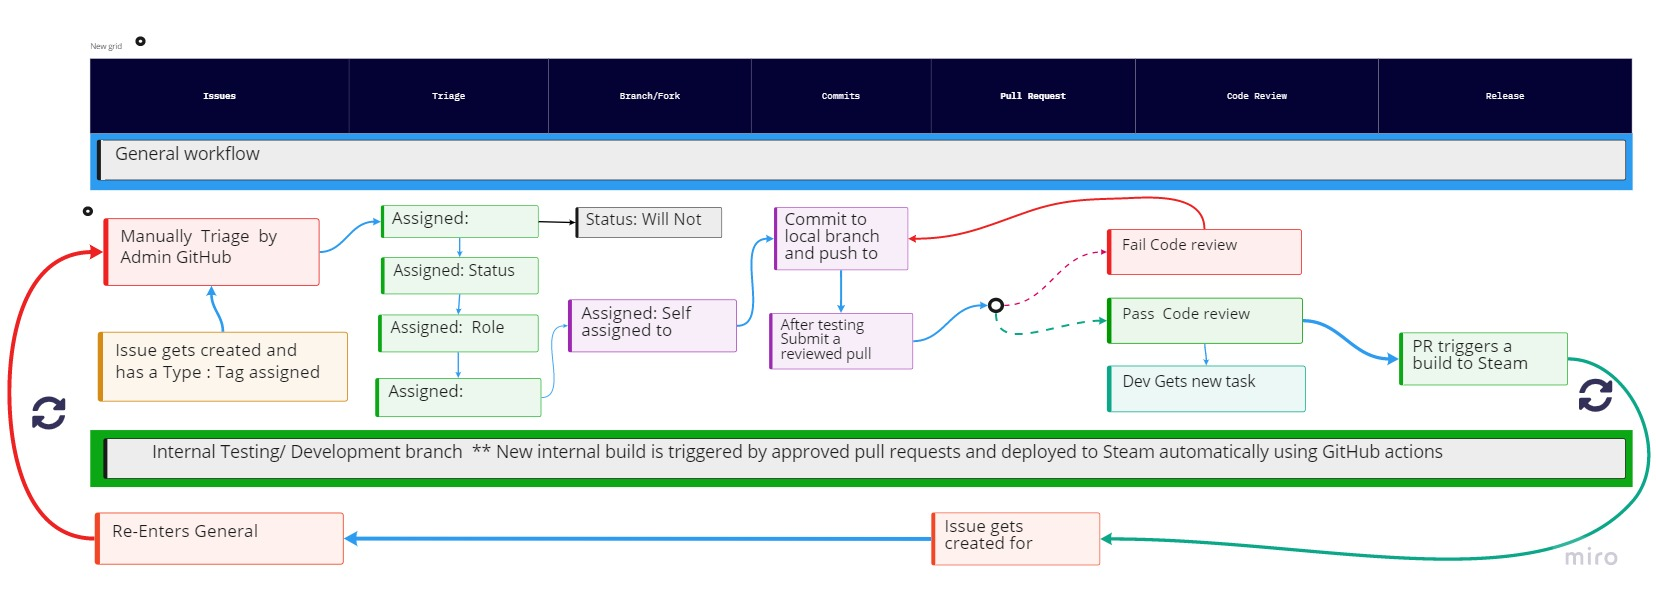
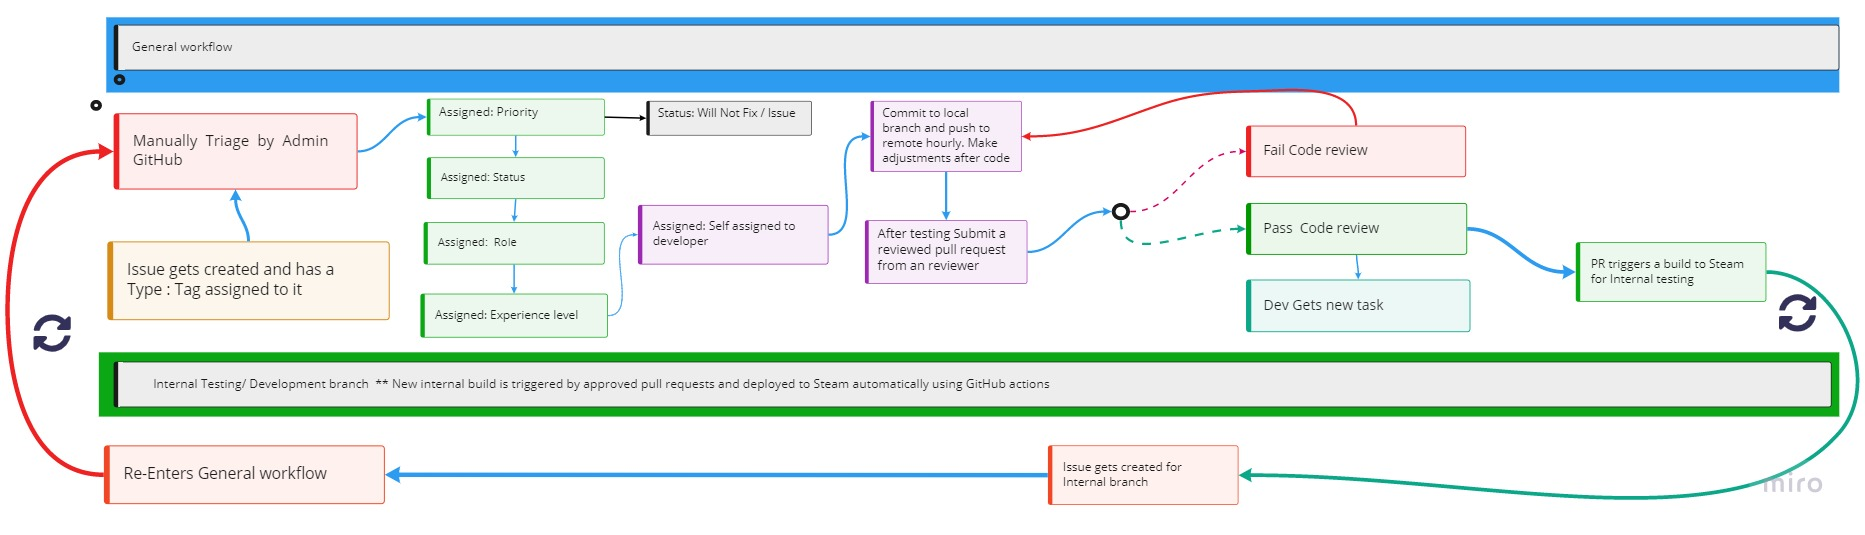
added more media

diff --git a/README.html b/README.html
@@ -61,9 +61,12 @@
 <li><a href="#branching">Branching</a></li>
 </ul>
 </li>
+<li><a href="#releases">Releases</a>
+<ul>
 <li><a href="#internal-testing">Internal Testing</a>
 <ul>
-<li><a href="#release_devyml"><strong>release_dev.yml</strong></a></li>
+<li><a href="#steps">Steps</a></li>
+<li><a href="#release_devyml-will-do-the-following-">**release_dev.yml will do the following **</a></li>
 </ul>
 </li>
 <li><a href="#release-candidate">Release Candidate</a>
@@ -74,6 +77,8 @@
 <li><a href="#main-release">main release</a>
 <ul>
 <li><a href="#release_mainyml"><strong>release_main.yml</strong></a></li>
+</ul>
+</li>
 </ul>
 </li>
 <li><a href="#setting-up-a-development-enviorment">Setting up a Development Enviorment</a></li>
@@ -383,7 +388,7 @@
 <p><strong>Descriptor</strong></p>
 <ul>
 <li>Add a short descriptor of the task</li>
-<li>This makes the branch name recognizable and easy to search</li>
+<li>This makes the branch name recognizable and easy to <strong>search</strong></li>
 <li>In descriptor we will use hyphens - to use instead of white space
 <ul>
 <li><strong>Note: This is only git/github and will not be used in code</strong></li>
@@ -391,8 +396,15 @@
 </li>
 </ul>
 </li>
+</ul>
+</li>
+</ul>
+<p align="left" >
+  <img width="1000" src="https://raw.githubusercontent.com/Project-Hatchet/developers_hub/main/media/Branching/searching_type_frature.png">
+</p>
+<ul>
 <li>
-<p>Types</p>
+<p><strong>Types</strong></p>
 <ul>
 <li>
 <p>This is the type of issue we are working on <strong>all in lowercase</strong></p>
@@ -401,44 +413,44 @@
 <p>This is diffrent than the labels in Github</p>
 </li>
 <li>
-<p>Default types</p>
+<p><strong>Default types</strong></p>
 <ul>
-<li>feature
+<li><strong>feature</strong>
 <ul>
 <li>Adding a new feature</li>
 </ul>
 </li>
-<li>bugfix
+<li><strong>bugfix</strong>
 <ul>
 <li>A fix for a bug</li>
 </ul>
 </li>
-<li>documentation
+<li><strong>documentation</strong>
 <ul>
 <li>Adding or updating documentation</li>
 </ul>
 </li>
-<li>hotfix
+<li><strong>hotfix</strong>
 <ul>
 <li>critical bug fix</li>
 </ul>
 </li>
-<li>devops
+<li><strong>devops</strong>
 <ul>
 <li>updating a tool or workflow not related to</li>
 </ul>
 </li>
-<li>model
+<li><strong>model</strong>
 <ul>
 <li>an update to a model</li>
 </ul>
 </li>
-<li>texture
+<li><strong>texture</strong>
 <ul>
 <li>update to texture or rvmat</li>
 </ul>
 </li>
-<li>refactor
+<li><strong>refactor</strong>
 <ul>
 <li>refactor of code to improve</li>
 </ul>
@@ -453,13 +465,13 @@
 </ul>
 </li>
 <li>
-<p>Branch Creation Format</p>
+<p><strong>Branch Creation Format</strong></p>
 <ul>
 <li>
-<p>Type/Descriptor</p>
+<p><strong>Type</strong>/<strong>Descriptor</strong></p>
 </li>
 <li>
-<p>Good examples</p>
+<p><strong>Good examples</strong></p>
 <ul>
 <li>bugfix/dampeners</li>
 <li>feature/overhaul-flir-system</li>
@@ -467,7 +479,7 @@
 </ul>
 </li>
 <li>
-<p>Bad examples</p>
+<p><strong>Bad examples</strong></p>
 <ul>
 <li>version1-breakpoint1</li>
 <li>update-electron-comparison</li>
@@ -476,10 +488,26 @@
 </ul>
 </li>
 </ul>
+<h1 id="releases">Releases</h1>
+<h2 id="internal-testing">Internal Testing</h2>
+<img align="center" width="" src="https://raw.githubusercontent.com/Project-Hatchet/developers_hub/main/media/workflow_and_automation/automation_workflow.jpg">
+<h3 id="steps">Steps</h3>
+<ul>
+<li>Issue gets created and is assigned an Type: Triage label</li>
+<li>A senior developer Triage's the issue and assigns:
+<ul>
+<li>Priority</li>
+<li>Status</li>
+<li>Role</li>
+<li>Experience level
+<ul>
+<li>or will not fix and issue gets closed</li>
+</ul>
 </li>
 </ul>
-<h1 id="internal-testing">Internal Testing</h1>
-<h3 id="release_devyml"><strong>release_dev.yml</strong></h3>
+</li>
+</ul>
+<h3 id="release_devyml-will-do-the-following-">**release_dev.yml will do the following **</h3>
 <ul>
 <li>on push to main branch</li>
 <li>builds addons with HEMTT</li>
@@ -488,13 +516,13 @@
 <li>Uploads to steam workshop</li>
 <li>Only available to friends of the steam page</li>
 </ul>
-<h1 id="release-candidate">Release Candidate</h1>
+<h2 id="release-candidate">Release Candidate</h2>
 <h3 id="release_rcyml"><strong>release_rc.yml</strong></h3>
 <ul>
 <li>Build triggered by tag rc-v0.0.0</li>
 <li>uploads public test version to the steam workshop</li>
 </ul>
-<h1 id="main-release">main release</h1>
+<h2 id="main-release">main release</h2>
 <h3 id="release_mainyml"><strong>release_main.yml</strong></h3>
 <ul>
 <li>Build triggered by tag v0.0.0</li>

diff --git a/README.md b/README.md
@@ -29,11 +29,13 @@
     - [**Workflow File's that need to be Changed when making a new repo**](#workflow-files-that-need-to-be-changed-when-making-a-new-repo)
     - [**Non specific Workflow Automation**](#non-specific-workflow-automation)
   - [Branching](#branching)
-- [Internal Testing](#internal-testing)
-    - [**release_dev.yml**](#release_devyml)
-- [Release Candidate](#release-candidate)
+- [Releases](#releases)
+  - [Internal Testing](#internal-testing)
+    - [Steps](#steps)
+    - [**release_dev.yml will do the following **](#release_devyml-will-do-the-following-)
+  - [Release Candidate](#release-candidate)
     - [**release_rc.yml**](#release_rcyml)
-- [main release](#main-release)
+  - [main release](#main-release)
     - [**release_main.yml**](#release_mainyml)
 - [Setting up a Development Enviorment](#setting-up-a-development-enviorment)
 
@@ -242,55 +244,69 @@ ACE = "P:\\z\\ACE3"
 
   - **Descriptor**
     - Add a short descriptor of the task
-    - This makes the branch name recognizable and easy to search
+    - This makes the branch name recognizable and easy to **search**
     - In descriptor we will use hyphens - to use instead of white space
       - **Note: This is only git/github and will not be used in code** 
 
-  - Types 
+<p align="left" >
+  <img width="1000" src="https://raw.githubusercontent.com/Project-Hatchet/developers_hub/main/media/Branching/searching_type_frature.png">
+</p>
+
+  - **Types** 
     - This is the type of issue we are working on **all in lowercase**
     - This is diffrent than the labels in Github 
   
-    - Default types
-      - feature
+    - **Default types**
+      - **feature**
         - Adding a new feature
-      - bugfix
+      - **bugfix**
         - A fix for a bug 
-      - documentation
+      - **documentation**
         - Adding or updating documentation
-      - hotfix
+      - **hotfix**
         - critical bug fix
-      - devops
+      - **devops**
         - updating a tool or workflow not related to 
-      - model
+      - **model**
         - an update to a model
-      - texture
+      - **texture**
         - update to texture or rvmat
-      - refactor
+      - **refactor**
         - refactor of code to improve
       - **release**
         - Need to ask about this  could be useful   
      
 
-  -  Branch Creation Format
-     - Type/Descriptor
+  -  **Branch Creation Format**
+     - **Type**/**Descriptor**
 
-     - Good examples
+     - **Good examples**
        - bugfix/dampeners
        - feature/overhaul-flir-system
        - feature/open-inspector
 
-  
-     - Bad examples
+     - **Bad examples**
        - version1-breakpoint1
        - update-electron-comparison
 
   
+# Releases 
 
-# Internal Testing
+## Internal Testing 
+<img align="center" width="" src="https://raw.githubusercontent.com/Project-Hatchet/developers_hub/main/media/workflow_and_automation/automation_workflow.jpg">
+
+### Steps
+- Issue gets created and is assigned an Type: Triage label
+- A senior developer Triage's the issue and assigns:
+  - Priority 
+  - Status
+  - Role
+  - Experience level 
+    - or will not fix and issue gets closed
+  
 
 
-
-### **release_dev.yml**
+### **release_dev.yml will do the following **
 - on push to main branch
 - builds addons with HEMTT
 - builds addons with HEMTT
@@ -301,7 +317,7 @@ ACE = "P:\\z\\ACE3"
 
 
 
-# Release Candidate 
+## Release Candidate 
 
 
 
@@ -311,7 +327,7 @@ ACE = "P:\\z\\ACE3"
 - Build triggered by tag rc-v0.0.0
 - uploads public test version to the steam workshop
 
-# main release
+## main release
 
 ### **release_main.yml**
 - Build triggered by tag v0.0.0
